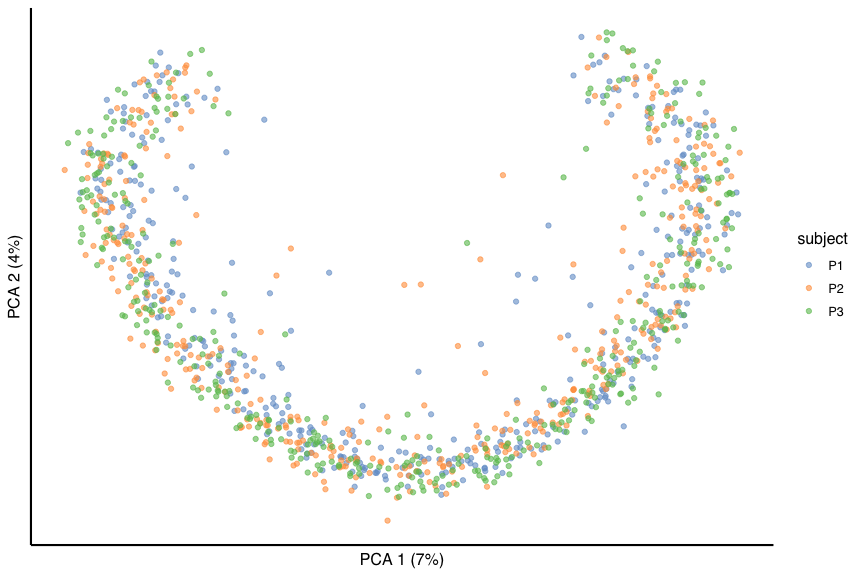
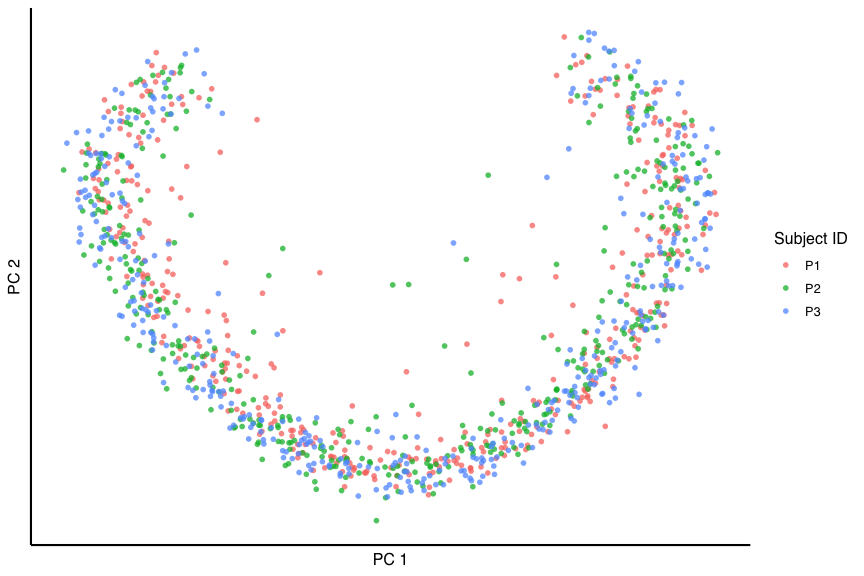
Recompiled README.Rmd

diff --git a/README.md b/README.md
@@ -24,6 +24,7 @@
 <!-- badges: start -->
 
 [![R-CMD-check](https://github.com/jr-leary7/scLANE/actions/workflows/R-CMD-check.yaml/badge.svg)](https://github.com/jr-leary7/scLANE/actions/workflows/R-CMD-check.yaml)
+[![Bioc-check](https://github.com/jr-leary7/scLANE/actions/workflows/bioc-check.yaml/badge.svg)](https://github.com/jr-leary7/scLANE/actions/workflows/bioc-check.yaml)
 ![release](https://img.shields.io/github/v/release/jr-leary7/scLANE?color=purple)
 ![last
 commit](https://img.shields.io/github/last-commit/jr-leary7/scLANE/main?color=darkgreen)
@@ -94,11 +95,8 @@ conflict.
 
 ``` r
 library(dplyr)
-library(scater)
 library(scLANE)
 library(ggplot2)
-select <- dplyr::select
-filter <- dplyr::filter
 ```
 
 ## Input data
@@ -117,8 +115,101 @@ The PCA embeddings show us a pretty simple trajectory that’s strongly
 correlated with the first principal component.
 
 ``` r
-plotPCA(sim_data, colour_by = "cell_time_normed") + 
+data.frame(sim_data@int_colData$reducedDims@listData$PCA[, 1:2]) %>% 
+  mutate(pseudotime = sim_data$cell_time_normed) %>% 
+  ggplot(aes(x = PC1, y = PC2, color = pseudotime)) + 
+  geom_point(size = 2, alpha = 0.75, stroke = 0) + 
+  scale_color_gradientn(colors = viridisLite::plasma(n = 20)) + 
+  labs(x = "PC 1", y = "PC 2", color = "Pseudotime") + 
   theme_scLANE(umap = TRUE)
+#> Loading required package: S4Vectors
+#> Loading required package: stats4
+#> Loading required package: BiocGenerics
+#> 
+#> Attaching package: 'BiocGenerics'
+#> The following objects are masked from 'package:dplyr':
+#> 
+#>     combine, intersect, setdiff, union
+#> The following objects are masked from 'package:stats':
+#> 
+#>     IQR, mad, sd, var, xtabs
+#> The following objects are masked from 'package:base':
+#> 
+#>     anyDuplicated, aperm, append, as.data.frame, basename, cbind,
+#>     colnames, dirname, do.call, duplicated, eval, evalq, Filter, Find,
+#>     get, grep, grepl, intersect, is.unsorted, lapply, Map, mapply,
+#>     match, mget, order, paste, pmax, pmax.int, pmin, pmin.int,
+#>     Position, rank, rbind, Reduce, rownames, sapply, setdiff, sort,
+#>     table, tapply, union, unique, unsplit, which.max, which.min
+#> 
+#> Attaching package: 'S4Vectors'
+#> The following objects are masked from 'package:dplyr':
+#> 
+#>     first, rename
+#> The following object is masked from 'package:utils':
+#> 
+#>     findMatches
+#> The following objects are masked from 'package:base':
+#> 
+#>     expand.grid, I, unname
+#> Loading required package: SingleCellExperiment
+#> Loading required package: SummarizedExperiment
+#> Loading required package: MatrixGenerics
+#> Loading required package: matrixStats
+#> 
+#> Attaching package: 'matrixStats'
+#> The following object is masked from 'package:dplyr':
+#> 
+#>     count
+#> 
+#> Attaching package: 'MatrixGenerics'
+#> The following objects are masked from 'package:matrixStats':
+#> 
+#>     colAlls, colAnyNAs, colAnys, colAvgsPerRowSet, colCollapse,
+#>     colCounts, colCummaxs, colCummins, colCumprods, colCumsums,
+#>     colDiffs, colIQRDiffs, colIQRs, colLogSumExps, colMadDiffs,
+#>     colMads, colMaxs, colMeans2, colMedians, colMins, colOrderStats,
+#>     colProds, colQuantiles, colRanges, colRanks, colSdDiffs, colSds,
+#>     colSums2, colTabulates, colVarDiffs, colVars, colWeightedMads,
+#>     colWeightedMeans, colWeightedMedians, colWeightedSds,
+#>     colWeightedVars, rowAlls, rowAnyNAs, rowAnys, rowAvgsPerColSet,
+#>     rowCollapse, rowCounts, rowCummaxs, rowCummins, rowCumprods,
+#>     rowCumsums, rowDiffs, rowIQRDiffs, rowIQRs, rowLogSumExps,
+#>     rowMadDiffs, rowMads, rowMaxs, rowMeans2, rowMedians, rowMins,
+#>     rowOrderStats, rowProds, rowQuantiles, rowRanges, rowRanks,
+#>     rowSdDiffs, rowSds, rowSums2, rowTabulates, rowVarDiffs, rowVars,
+#>     rowWeightedMads, rowWeightedMeans, rowWeightedMedians,
+#>     rowWeightedSds, rowWeightedVars
+#> Loading required package: GenomicRanges
+#> Loading required package: IRanges
+#> 
+#> Attaching package: 'IRanges'
+#> The following objects are masked from 'package:dplyr':
+#> 
+#>     collapse, desc, slice
+#> Loading required package: GenomeInfoDb
+#> 
+#> Attaching package: 'GenomicRanges'
+#> The following object is masked from 'package:magrittr':
+#> 
+#>     subtract
+#> Loading required package: Biobase
+#> Welcome to Bioconductor
+#> 
+#>     Vignettes contain introductory material; view with
+#>     'browseVignettes()'. To cite Bioconductor, see
+#>     'citation("Biobase")', and for packages 'citation("pkgname")'.
+#> 
+#> Attaching package: 'Biobase'
+#> The following object is masked from 'package:MatrixGenerics':
+#> 
+#>     rowMedians
+#> The following objects are masked from 'package:matrixStats':
+#> 
+#>     anyMissing, rowMedians
+#> Registered S3 method overwritten by 'SparseArray':
+#>   method           from        
+#>   rowsum.dgCMatrix DelayedArray
 ```
 
 <img src="man/figures/README-plot-sims-pt-1.png" width="100%" />
@@ -127,7 +218,11 @@ We also see that the data are not clustered by subject, which indicates
 that gene dynamics are mostly homogeneous across subjects.
 
 ``` r
-plotPCA(sim_data, colour_by = "subject") + 
+data.frame(sim_data@int_colData$reducedDims@listData$PCA[, 1:2]) %>% 
+  mutate(subject = sim_data$subject) %>% 
+  ggplot(aes(x = PC1, y = PC2, color = subject)) + 
+  geom_point(size = 2, alpha = 0.75, stroke = 0) + 
+  labs(x = "PC 1", y = "PC 2", color = "Subject ID") + 
   theme_scLANE(umap = TRUE)
 ```
 
@@ -181,7 +276,7 @@ scLANE_models_glm <- testDynamic(sim_data,
 #> Registered S3 method overwritten by 'bit':
 #>   method   from  
 #>   print.ri gamlss
-#> scLANE testing completed for 100 genes across 1 lineage in 35.114 secs
+#> scLANE testing completed for 100 genes across 1 lineage in 29.977 secs
 ```
 
 After the function finishes running, we use `getResultsDE()` to generate
@@ -200,13 +295,13 @@ select(scLANE_res_glm, Gene, Lineage, Test_Stat, P_Val, P_Val_Adj, Gene_Dynamic_
                col.names = c("Gene", "Lineage", "LRT stat.", "P-value", "Adj. p-value", "Predicted dynamic status"))
 ```
 
-| Gene     | Lineage | LRT stat. | P-value | Adj. p-value | Predicted dynamic status |
-|:---------|:--------|----------:|--------:|-------------:|-------------------------:|
-| MFSD2B   | A       |   209.755 |   0.000 |        0.000 |                        1 |
-| GOLGA8EP | A       |     4.390 |   0.036 |        0.537 |                        0 |
-| NOP14    | A       |     7.712 |   0.005 |        0.132 |                        0 |
-| TMCO3    | A       |   167.582 |   0.000 |        0.000 |                        1 |
-| BATF2    | A       |     5.216 |   0.074 |        0.537 |                        0 |
+| Gene   | Lineage | LRT stat. | P-value | Adj. p-value | Predicted dynamic status |
+|:-------|:--------|----------:|--------:|-------------:|-------------------------:|
+| MFSD2B | A       |   209.755 |   0.000 |        0.000 |                        1 |
+| SMG1   | A       |     5.062 |   0.080 |        0.419 |                        0 |
+| UAP1L1 | A       |     9.118 |   0.010 |        0.199 |                        0 |
+| TMCO3  | A       |   167.582 |   0.000 |        0.000 |                        1 |
+| MYOF   | A       |     4.015 |   0.045 |        0.419 |                        0 |
 
 ### GEE mode
 
@@ -229,7 +324,7 @@ scLANE_models_gee <- testDynamic(sim_data,
                                  id.vec = sim_data$subject, 
                                  cor.structure = "ar1", 
                                  n.cores = 4)
-#> scLANE testing completed for 100 genes across 1 lineage in 2.201 mins
+#> scLANE testing completed for 100 genes across 1 lineage in 3.076 mins
 ```
 
 We again generate the table of DE test results. The variance of the
@@ -248,11 +343,11 @@ select(scLANE_res_gee, Gene, Lineage, Test_Stat, P_Val, P_Val_Adj, Gene_Dynamic_
 
 | Gene     | Lineage | Wald stat. | P-value | Adj. p-value | Predicted dynamic status |
 |:---------|:--------|-----------:|--------:|-------------:|-------------------------:|
-| DGUOK    | A       | 200675.460 |   0.000 |        0.000 |                        1 |
-| VDAC1    | A       |     13.025 |   0.001 |        0.025 |                        0 |
+| CKAP4    | A       |  48922.644 |       0 |            0 |                        1 |
+| TBCC     | A       |     32.151 |       0 |            0 |                        1 |
 | GOLGA8EP | A       |         NA |      NA |           NA |                        0 |
-| WAPAL    | A       |   3254.351 |   0.000 |        0.000 |                        1 |
-| IDH3G    | A       |    863.479 |   0.000 |        0.000 |                        1 |
+| PFDN2    | A       |   2131.763 |       0 |            0 |                        1 |
+| IDH3G    | A       |    863.479 |       0 |            0 |                        1 |
 
 ### GLMM mode
 
@@ -276,7 +371,7 @@ scLANE_models_glmm <- testDynamic(sim_data,
                                   glmm.adaptive = TRUE, 
                                   id.vec = sim_data$subject, 
                                   n.cores = 4)
-#> scLANE testing completed for 100 genes across 1 lineage in 3.427 mins
+#> scLANE testing completed for 100 genes across 1 lineage in 4.863 mins
 ```
 
 {% note %}
@@ -306,8 +401,8 @@ select(scLANE_res_glmm, Gene, Lineage, Test_Stat, P_Val, P_Val_Adj, Gene_Dynamic
 
 | Gene    | Lineage | LRT stat. | P-value | Adj. p-value | Predicted dynamic status |
 |:--------|:--------|----------:|--------:|-------------:|-------------------------:|
-| DDX1    | A       |   131.707 |   0.000 |            0 |                        1 |
-| TSPAN1  | A       |    78.616 |   0.000 |            0 |                        1 |
+| PGLS    | A       |   129.086 |   0.000 |            0 |                        1 |
+| TSPAN1  | A       |    85.987 |   0.000 |            0 |                        1 |
 | WDSUB1  | A       |        NA |      NA |           NA |                        0 |
 | FAM135B | A       |        NA |      NA |           NA |                        0 |
 | NLGN4Y  | A       |     9.878 |   0.627 |            1 |                        0 |
